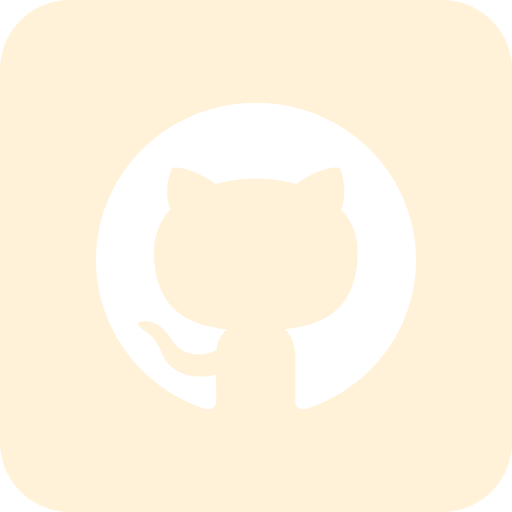
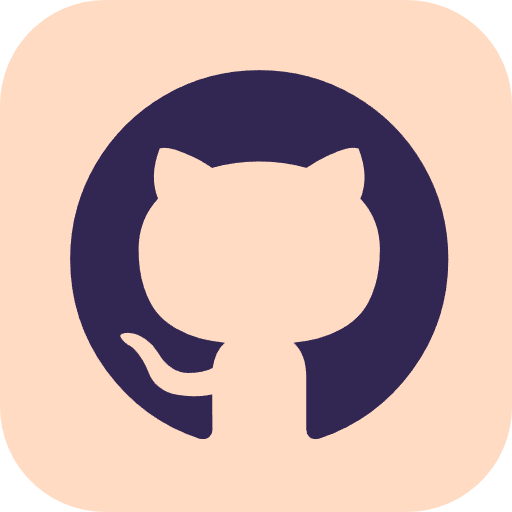
Added new color pallete, completed homepage and added required dependencies

diff --git a/src/components/hero/Hero.jsx b/src/components/hero/Hero.jsx
@@ -1,0 +1,100 @@
+import '../hero/Hero.scss'
+import { TypeAnimation } from 'react-type-animation';
+import me from '../../assets/ME.png'
+import scroll from '../../assets/scrollDown.png'
+import React from 'react'
+
+import {motion} from 'framer-motion'
+
+
+const textVariant = {
+    initial: {
+        x:-500,
+        opacity:0,
+    },
+
+    animate: {
+        x:0,
+        opacity :1,
+        transition: {
+            duration: 1,
+            staggerChildren: 0.1,
+        }
+    },
+     scrollButton:{
+        opacity:0,
+        y:10,
+        transition: {
+            duration:2,
+            repeat: Infinity,
+        }
+     }
+};
+
+const slideVariant = {
+    initial: {
+        x:300,
+    },
+
+    animate: {
+        x:"-880%",
+        transition: {
+            repeat: Infinity,
+            repeatType:"mirror",
+            duration: 20,
+        }
+    }
+};
+
+const Hero = () => {
+    return (
+        <div className='hero'>
+            <div className="wrapper">
+
+                <motion.div className="textContainer" variants={textVariant} initial="initial" animate="animate">
+                    <motion.p variants={textVariant} style={{ fontSize: "3.5em", width:"3em" }}>
+                        OINDRILA BANERJEE {""}
+                    </motion.p>
+                    <TypeAnimation variants={textVariant}
+                        sequence={[
+                            // Same substring at the start will only be typed out once, initially
+                            'Software Developer',
+                            1000, // wait 1s before replacing "Mice" with "Hamsters"
+                            'Backend Developer',
+                            1000,
+                            'Coder',
+                            1000,
+                            'Thinker',
+                            1000,
+                            'Learner',
+                            1000,
+                            'Hustler',
+                            1000,
+                            'Coffee Lover!',
+                            1000,
+                        ]}
+                        wrapper="span"
+                        speed={50}
+                        style={{ fontSize: '4em', display: 'inline-block' }}
+                        repeat={Infinity}
+                    />
+                    <motion.div>
+                        <motion.img variants={textVariant} animate="scrollButton" src={scroll} alt='' />
+                    </motion.div>
+                </motion.div>
+            </div>
+            <motion.div 
+            className="movingTextContainer" 
+            variants={slideVariant}
+             initial="initial"
+              animate="animate">
+                Java SpringBoot MySQL Python Git ReactJS LLD NodeJS 
+            </motion.div>
+            <div className="imageContainer">
+                <img src={me} alt='' style={{ width: "38em", height: "40em" }} />
+            </div>
+        </div>
+    )
+}
+
+export default Hero

diff --git a/src/components/sidebar/links/Links.jsx b/src/components/sidebar/links/Links.jsx
@@ -1,21 +1,53 @@
 import React from 'react'
+import { motion } from "framer-motion";
+
+const variants = {
+    open: {
+      transition: {
+        staggerChildren: 0.1,
+      },
+    },
+    closed: {
+      transition: {
+        staggerChildren: 0.05,
+        staggerDirection: -1,
+      },
+    },
+  };
+  const itemVariants = {
+    open: {
+      y: 0,
+      opacity: 1,
+    },
+    closed: {
+      y: 50,
+      opacity: 0,
+    },
+  };
 
 const Links = () => {
 
     const links = [
         "Homepage",
-        "About Me",
+        "AboutMe",
         "Projects",
         "Contact"
     ]
 
     return (
-        <div className='links'>{links.map(link => (
-            <a href={`#${link}`} key={link}>
+        <motion.div className='links' variants={variants}>{
+            links.map((link) => (
+            <motion.a 
+            href={`#${link}`}
+            key={link}
+            variants={itemVariants}
+            whileHover={{ scale: 1.1 }}
+            whileTap={{ scale: 0.95 }}
+            >
                 {link}
-            </a>
+            </motion.a>
         ))}
-        </div>
+        </motion.div>
     )
 }
 

diff --git a/src/components/sidebar/Sidebar.scss b/src/components/sidebar/Sidebar.scss
@@ -3,18 +3,18 @@
     display: flex;
     flex-direction: column;
     align-items: center;
-    background-color: #FFF2D8;
-    color: #BCA37F;
+    background-color: #8062D6;
+    color: #BB9CC0;
 
 
     .bg {
         position: fixed;
-        top: 30px;
+        top: 25px;
         left: 20px;
         bottom: 0;
-        width: 350px;
+        width: 310px;
         height: 800px;
-        background-color: #FFF2D8;
+        background-color: #FFDBC3;
         border-radius: 50px;
 
     }
@@ -28,22 +28,22 @@
         justify-content: center;
         align-items: center;
         gap: 20px;
-        color: #113946;
+        color: #322653;
 
         a {
-            font-size: 40px;
+            font-size: 30px;
         }
     }
 
     button {
         position: fixed;
-        width: 55px;
-        height: 50px;
-        border-radius: 45%;
+        width: 40px;
+        height: 40px;
+        border-radius: 50%;
         top: 35px;
         left: 32px;
-        background-color: #FFF2D8;
-        color: #113946;
+        background-color: #FFDBC3;
+        color: #67729D;
         border: none;
         cursor: pointer;
     }

diff --git a/src/components/hero/Hero.scss b/src/components/hero/Hero.scss
@@ -1,0 +1,45 @@
+.hero {
+    height: calc(100vh - 100px);
+    background: linear-gradient(180deg,#322653, #7258bb );
+    overflow: hidden;
+    position: relative;
+    color: #FFDBC3;
+
+    .wrapper {
+        max-width: 1366px;
+        height: 100%;
+        margin: auto;
+
+        .textContainer {
+            height: 100%;
+            width: 50%;
+            display: flex;
+            flex-direction: column;
+            justify-content: center;
+            gap: 40px;
+
+            img {
+               width:  50px;
+            }
+        }
+    }
+
+    .imageContainer {
+        height: 100%;
+        position: absolute;
+        top: 7.5em;
+        right:8em;
+    }
+
+
+    .movingTextContainer {
+        position: absolute;
+        font-size: 40vh;
+        bottom: -50px;
+        white-space: nowrap;
+        color: #3d246c49;
+        width: 50%;
+        font-weight: bold;
+    }
+
+}

diff --git a/src/components/sidebar/Sidebar.jsx b/src/components/sidebar/Sidebar.jsx
@@ -7,7 +7,7 @@ import {motion} from 'framer-motion'
 
 const Sidebar = () => {
 const[open, setOpen] = useState(false);
-const[close, setClose] = useState(false);
+const[closed, setClosed] = useState(false);
 
 
     const variants = {
@@ -19,9 +19,8 @@ const[close, setClose] = useState(false);
             }
         },
         closed: {
-            clipPath: "circle(30px at 50px 50px)",
+            clipPath: "circle(10px at 30px 30px)",
             transition: {
-                delay:0.5,
                 type:"spring",
                 stiffness:400,
                 damping:40
@@ -30,7 +29,7 @@ const[close, setClose] = useState(false);
     }
 
   return (
-    <motion.div className='sidebar' animate={open ? "open" :"close"}>
+    <motion.div className="sidebar" animate={open? "open" :"closed"}>
         <motion.div className="bg" variants={variants}>
             <Links/>
         </motion.div>

diff --git a/src/App.js b/src/App.js
@@ -1,20 +1,23 @@
 import './App.scss';
+import Hero from './components/hero/Hero';
 import Navbar from './components/navbar/Navbar';
+import Parallax from './components/parallax/Parallax';
 
 function App() {
   return (
     <div>
-      <section>
+      <section id='Homepage'>
         <Navbar/>
+        <Hero/>
       </section>
-      <section>Parallax</section>
+      <section id='AboutMe'><Parallax type="About"/></section>
       <section>AboutMe</section>
-      <section>Parallax</section>
+      <section id='Projects'><Parallax type="projects"/></section>
       <section>Project 1</section>
       <section>Project 2</section>
       <section>Project 3</section>
       <section>Project 4</section>
-      <section>contact</section>
+      <section id='Contact'>contact</section>
     </div>
   );
 }

diff --git a/src/components/sidebar/toggleButton/ToggleButton.jsx b/src/components/sidebar/toggleButton/ToggleButton.jsx
@@ -1,9 +1,14 @@
-import React from 'react'
+import React, { useState } from 'react'
+import menu from '../../../assets/menu.svg'
+import closed from '../../../assets/CLOSE.svg'
 
 const ToggleButton = ({setOpen}) => {
+const [isOpen, setIsOpen] = useState(false);
+
   return (
-    <button onClick={() => setOpen((prev) => !prev)}>
-        ob
+    <button onClick={() => {setOpen((prev) => !prev); setIsOpen(!isOpen)}}>
+        {!isOpen && <img src={menu} style={{width: "2.5em", paddingTop: "0.25em"}} alt={"menu"} />}
+        {isOpen && <img src={closed} style={{width: "2.5em", paddingTop:"0.25em"}} alt={"close"} loading='lazy'/>}
     </button>
   )
 }

diff --git a/src/components/parallax/Parallax.jsx b/src/components/parallax/Parallax.jsx
@@ -1,0 +1,16 @@
+import '../parallax/Parallax.scss'
+import React from 'react'
+
+const Parallax = ({type}) => {
+  return (
+    <div className="parallax">
+        <h1>
+            {type==="About" ? "A Little About Me" : "Projects I've Worked On"}
+        </h1>
+        
+
+    </div>
+  )
+}
+
+export default Parallax

diff --git a/src/index.css b/src/index.css
@@ -6,7 +6,7 @@ body {
     sans-serif;
   -webkit-font-smoothing: antialiased;
   -moz-osx-font-smoothing: grayscale;
-  background-color: #113946;
+  background-color: #322653;
   
 }
 

diff --git a/src/App.scss b/src/App.scss
@@ -12,7 +12,7 @@ html {
     font-family: 'Comfortaa', sans-serif;
     font-family: 'Quicksand', sans-serif;
 
-    color: #FFF2D8;
+    color: #FFDBC3;
 }
 
 a {

diff --git a/src/components/parallax/Parallax.scss b/src/components/parallax/Parallax.scss
@@ -1,0 +1,3 @@
+.parallax {
+    
+}
